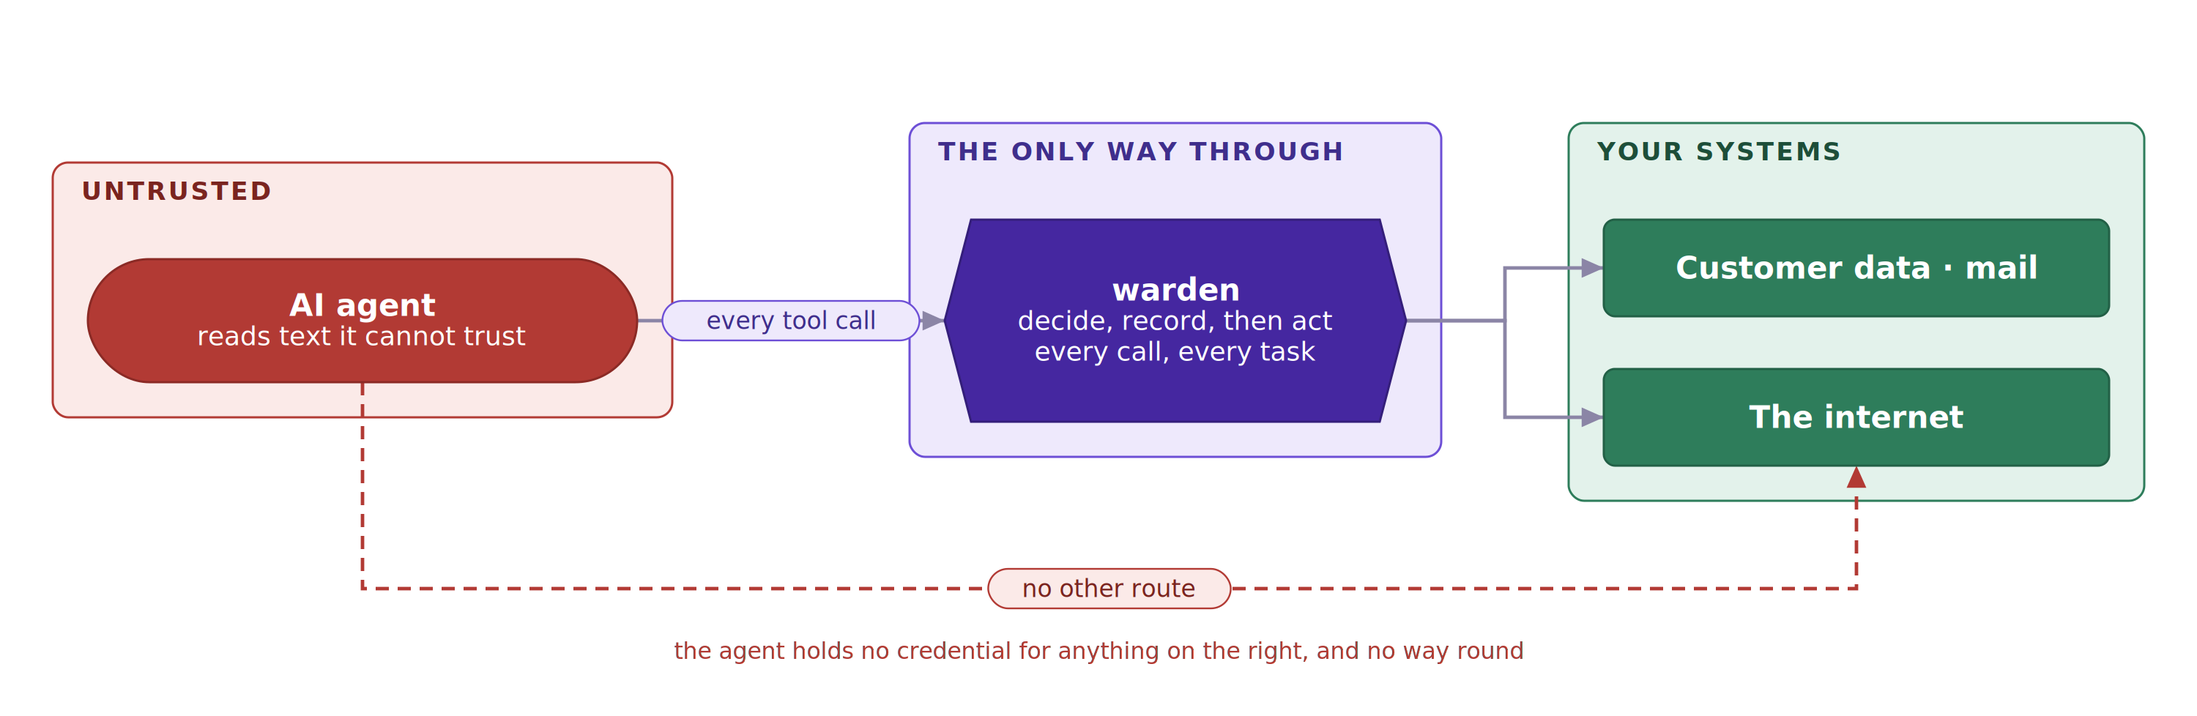
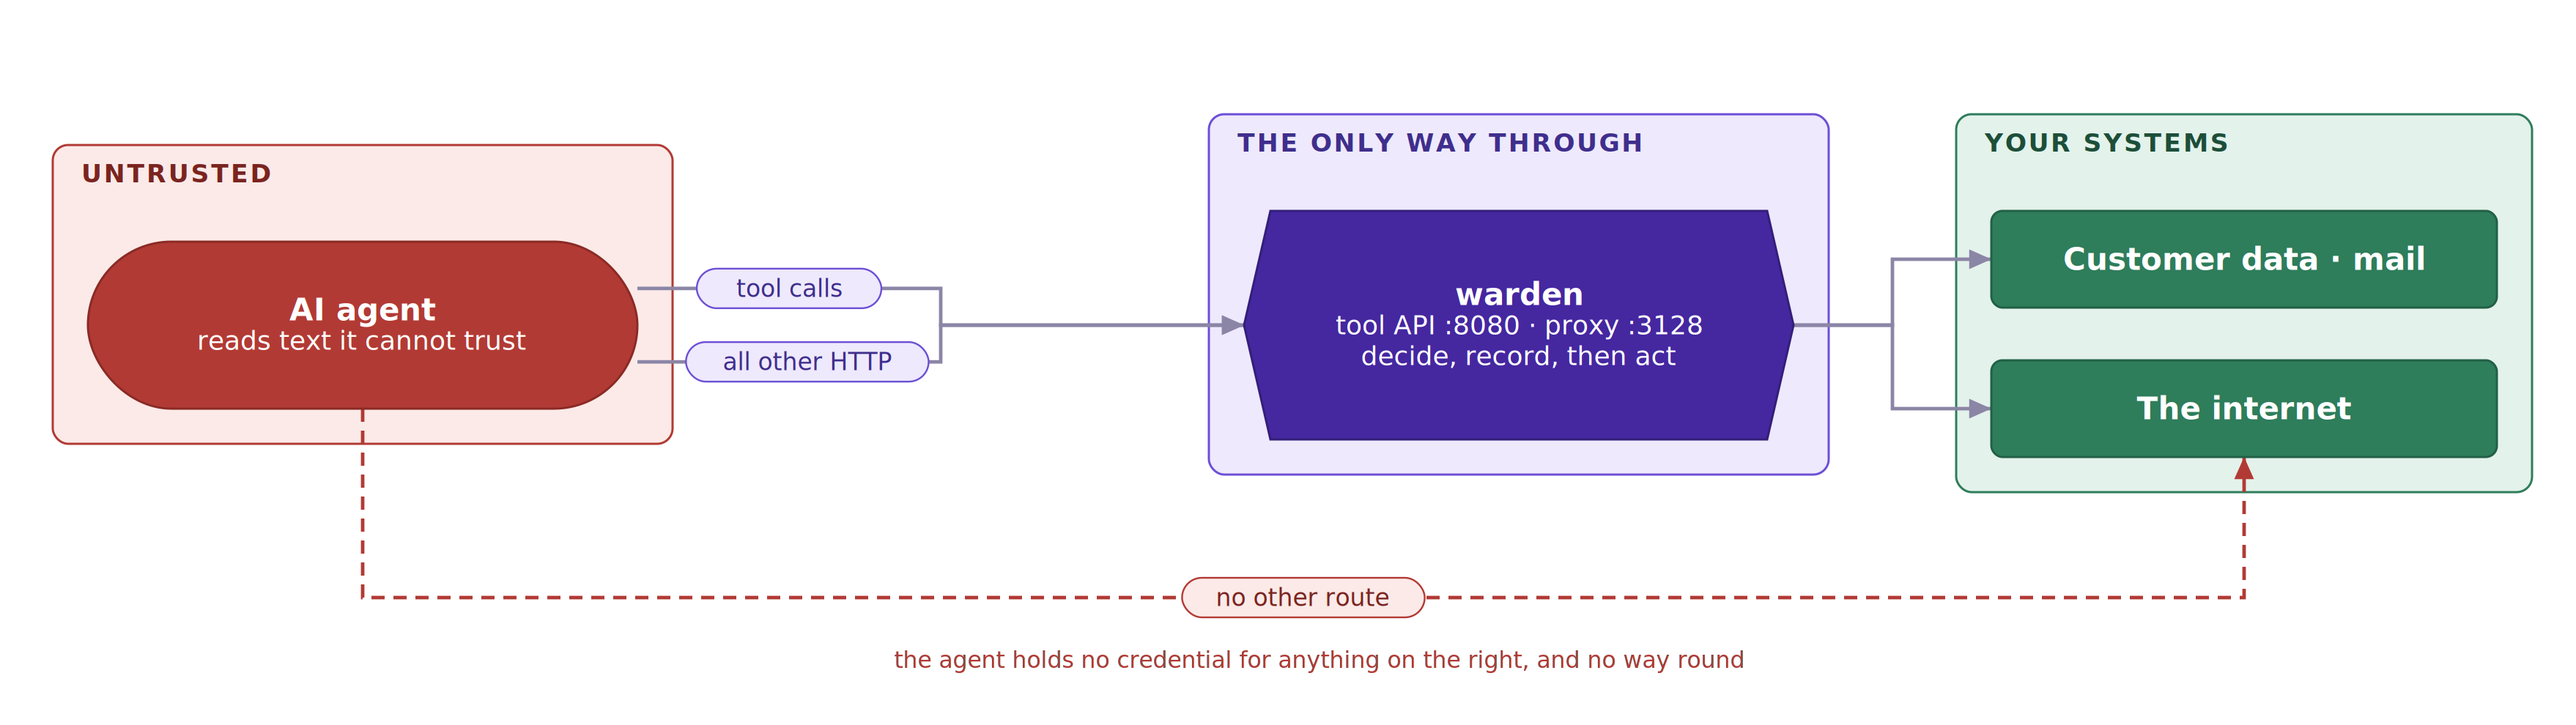
docs: show both surfaces in the overview, not just tool calls
The diagram drew one arrow into warden and labelled it 'every tool call',
which quietly said the egress proxy does not exist. That is backwards: the
proxy is the half that makes 'the only way through' true, since it carries
everything else the agent speaks, including its own call to the model.

Two arrows now, named, with the ports on the box. A reader who sees only tool
calls being brokered would reasonably assume an agent could open a socket and
go around.

diff --git a/tools/render_diagrams.py b/tools/render_diagrams.py
@@ -486,29 +486,35 @@ def overview():
     """
     d = Diagram(1000, 320, "warden sits between an AI agent and everything it can reach")
 
-    agent = d.box(40, 118, 250, 56,
+    agent = d.box(40, 110, 250, 76,
                   ["AI agent", "reads text it cannot trust"], "untrusted", "stadium")
     d.zone("UNTRUSTED", "untrusted", [agent])
 
-    gate = d.box(430, 100, 210, 92,
-                 ["warden", "decide, record, then act", "every call, every task"],
+    gate = d.box(566, 96, 250, 104,
+                 ["warden", "tool API :8080 · proxy :3128", "decide, record, then act"],
                  "core", "hex")
     d.zone("THE ONLY WAY THROUGH", "enforce", [gate])
 
-    data = d.box(730, 100, 230, 44, ["Customer data · mail"], "target")
-    net = d.box(730, 168, 230, 44, ["The internet"], "target")
+    data = d.box(906, 96, 230, 44, ["Customer data · mail"], "target")
+    net = d.box(906, 164, 230, 44, ["The internet"], "target")
     d.zone("YOUR SYSTEMS", "target", [data, net])
 
-    d.edge(agent.at("right"), gate.at("left"), src=agent, dst=gate,
-           label="every tool call")
-    d.route([gate.at("right"), (685, gate.cy), (685, data.cy), (data.x, data.cy)],
+    # Two arrows, not one: the tool API and the egress proxy are separate
+    # surfaces, and the proxy is the half that makes "only way through" true.
+    # A diagram showing tool calls alone would suggest an agent could open a
+    # socket and go around.
+    d.edge(agent.at("right", 0.28), gate.at("left"), src=agent, dst=gate,
+           bend="h", label="tool calls")
+    d.edge(agent.at("right", 0.72), gate.at("left"), src=agent, dst=gate,
+           bend="h", label="all other HTTP", label_t=0.56)
+    d.route([gate.at("right"), (861, gate.cy), (861, data.cy), (data.x, data.cy)],
             src=gate, dst=data)
-    d.route([gate.at("right"), (685, gate.cy), (685, net.cy), (net.x, net.cy)],
+    d.route([gate.at("right"), (861, gate.cy), (861, net.cy), (net.x, net.cy)],
             src=gate, dst=net)
 
-    d.route([agent.at("bottom"), (agent.cx, 268), (net.cx, 268), (net.cx, net.bottom)],
+    d.route([agent.at("bottom"), (agent.cx, 272), (net.cx, 272), (net.cx, net.bottom)],
             src=agent, dst=net, kind="forbidden", label="no other route")
-    d.note(500, 300,
+    d.note(600, 304,
            "the agent holds no credential for anything on the right, and no way round",
            FORBIDDEN)
     d.fit()

diff --git a/README.md b/README.md
@@ -37,7 +37,7 @@ is asking. It is the only route off the agent's network, so **containment is a
 property of the deployment, not a library the agent chooses to call.**
 
 <p align="center">
-  <img src="docs/assets/overview.png" width="100%" alt="An untrusted AI agent that reads text it cannot trust sends every tool call to warden, which decides, records and only then acts, and passes allowed calls on to customer data, mail and the internet. A dashed red arrow labelled 'no other route' shows the agent has no second path to those systems.">
+  <img src="docs/assets/overview.png" width="100%" alt="An untrusted AI agent that reads text it cannot trust reaches warden two ways: tool calls to the tool API on port 8080, and all other HTTP through the egress proxy on port 3128. warden decides, records and only then acts, passing allowed calls on to customer data, mail and the internet. A dashed red arrow labelled 'no other route' shows the agent has no second path to those systems.">
 </p>
 
 > [!NOTE]
